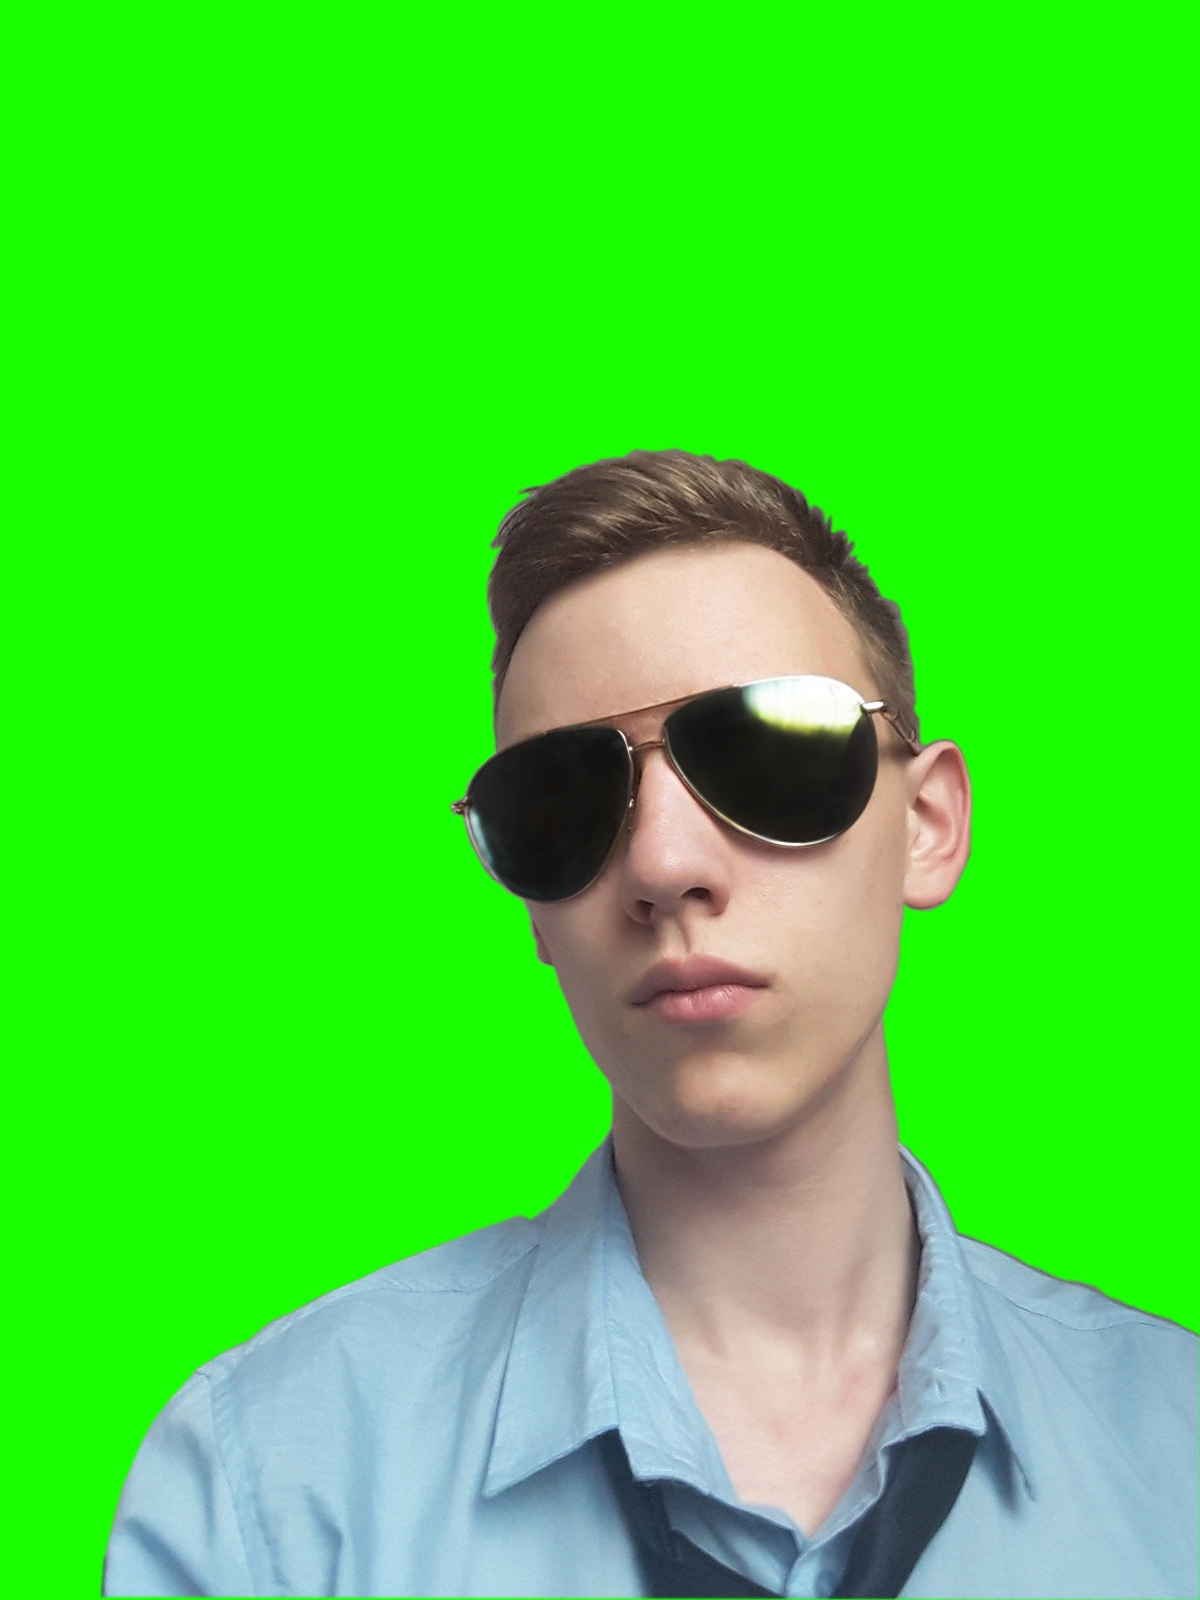
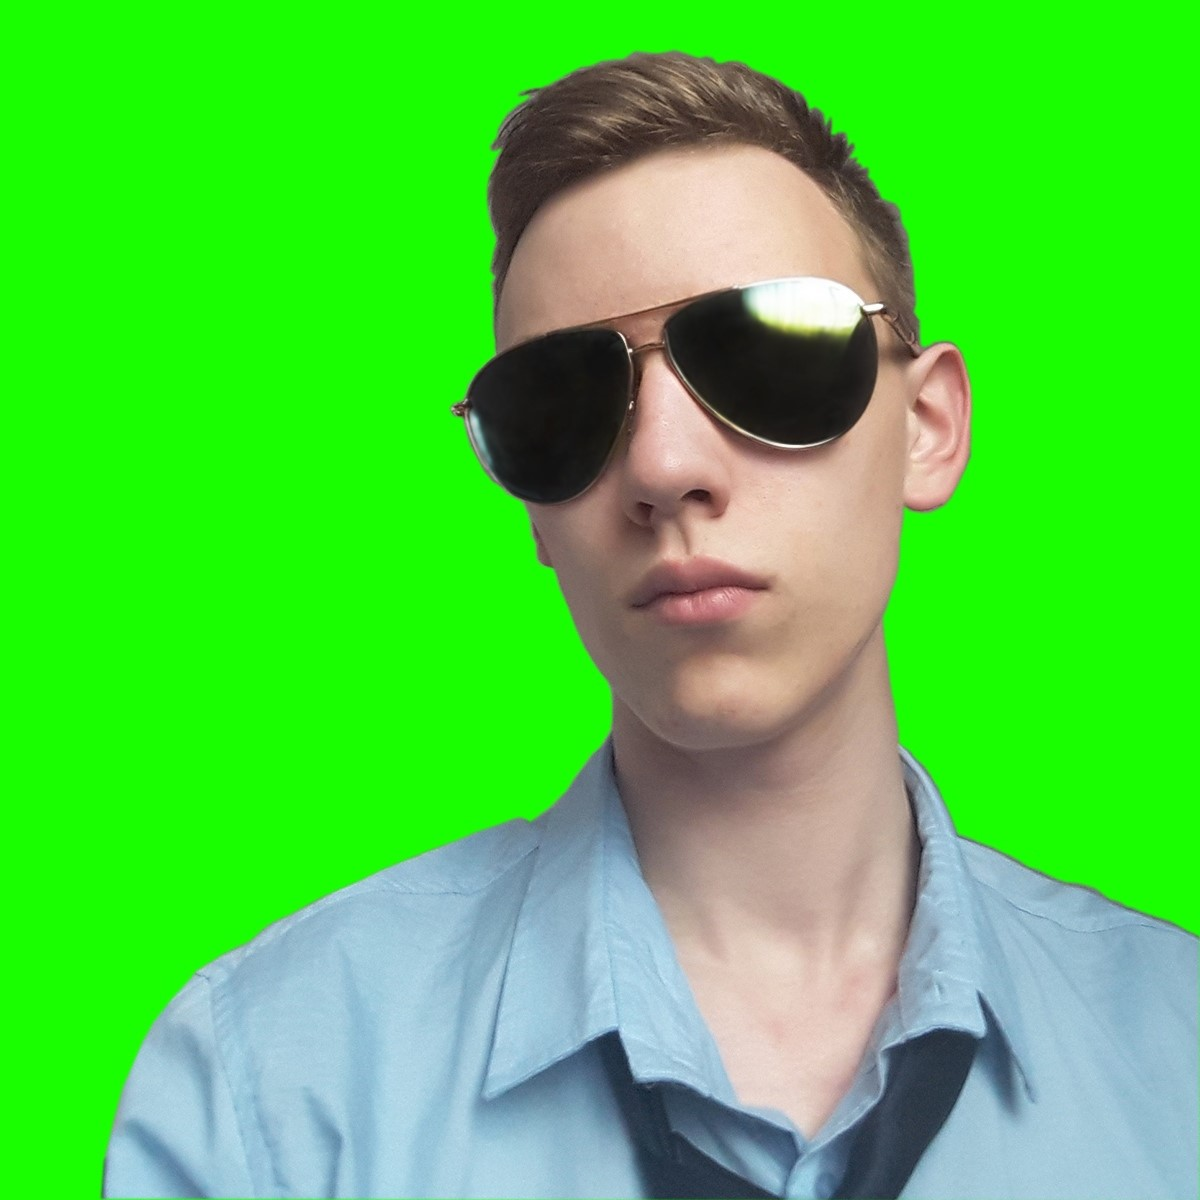
feat: add course image and link, resized profile picture

diff --git a/index.html b/index.html
@@ -1,5 +1,6 @@
 <!DOCTYPE html>
 <html lang="en">
+
 <head>
     <meta charset="UTF-8">
     <meta http-equiv="X-UA-Compatible" content="IE=edge">
@@ -7,6 +8,7 @@
     <link rel="stylesheet" href="style.css">
     <title>CV</title>
 </head>
+
 <body>
     <div class="wrapper">
         <header class="header">
@@ -14,7 +16,7 @@
                 <div class="flex-container">
                     <div class="fio">
                         <h1 class="fio-h1">Dmitry Liapkin</h1>
-                        <p class="about">Beginning developer</p>
+                        <p class="about">Beginner developer</p>
                         <p class="about-me">Inspired to learn programming</p>
                     </div>
                     <!--fio-->
@@ -43,7 +45,7 @@
                                     and Radioelectronics</span>
                                 <ul class="content-info-list">
                                     <li>Speciality: artificial intelligence</li>
-                                    <li>Current course: 3 of 4 </li>
+                                    <li>Current course: 3 out of 4 </li>
                                     <li>Profession after training: system engineer</li>
                                 </ul>
                                 <div class="divide-line"></div>
@@ -105,6 +107,8 @@
                                 <ul class="content-info-list">
                                     <li>C#</li>
                                     <li>Python</li>
+                                    <li>HTML</li>
+                                    <li>CSS</li>
                                 </ul>
                                 <div class="divide-line"></div>
                             </div>
@@ -128,8 +132,8 @@
                         <h3 class="content-title">About me</h3>
                         <div class="content-info">
                             <div class="content-info-w">
-                                <p class="content-info-about-me">My name is <b>Dmotry Liapkin</b>.
-                                    I was born in Belarus, the city of GOmel. At the moment, I am 20 years old and I am
+                                <p class="content-info-about-me">My name is <b>Dmitry Liapkin</b>.
+                                    I was born in Belarus, the city of Gomel. At the moment, I am 20 years old and I am
                                     studying at
                                     the <b>Faculty of Information Technologies and Management at BSUIR</b>.
                                     Unfortunately, I've come to understanding that University will not give me necessary
@@ -154,14 +158,20 @@
         <footer class="footer">
             <div class="container">
                 <div class="flex-footer">
-                    <h3 class="content-title">GitHub</h3>
-                    <div class="content-info">
-                        <div class="content-info-w">
-                            <a href="https://github.com/DLiapkin" class="git-link">You can take a look at my work here
-                                (mostly there are lab works for university)</a>
-                            <span><b>2022</b></span>
+                    <div class="flex-footer-left">
+                        <h3 class="content-title">GitHub</h3>
+                        <div class="content-info">
+                            <div class="content-info-w">
+                                <a href="https://github.com/DLiapkin" class="git-link">You can take a look at my work
+                                    here</a>
+                                <span><b>2022</b></span>
+                            </div>
+                            <!--content-info-w-->
                         </div>
-                        <!--content-info-w-->
+                    </div>
+                    <div class="flex-footer-right">
+                        <a href="https://rs.school/js-stage0/" class="rs-school-link"><img src="../rsschool-cv/img/rs_school_js.svg" alt=""
+                                width="135" height="100"></a>
                     </div>
                     <!--content-info-->
                 </div>
@@ -170,4 +180,5 @@
     </div>
     <!--wrapper-->
 </body>
+
 </html>
